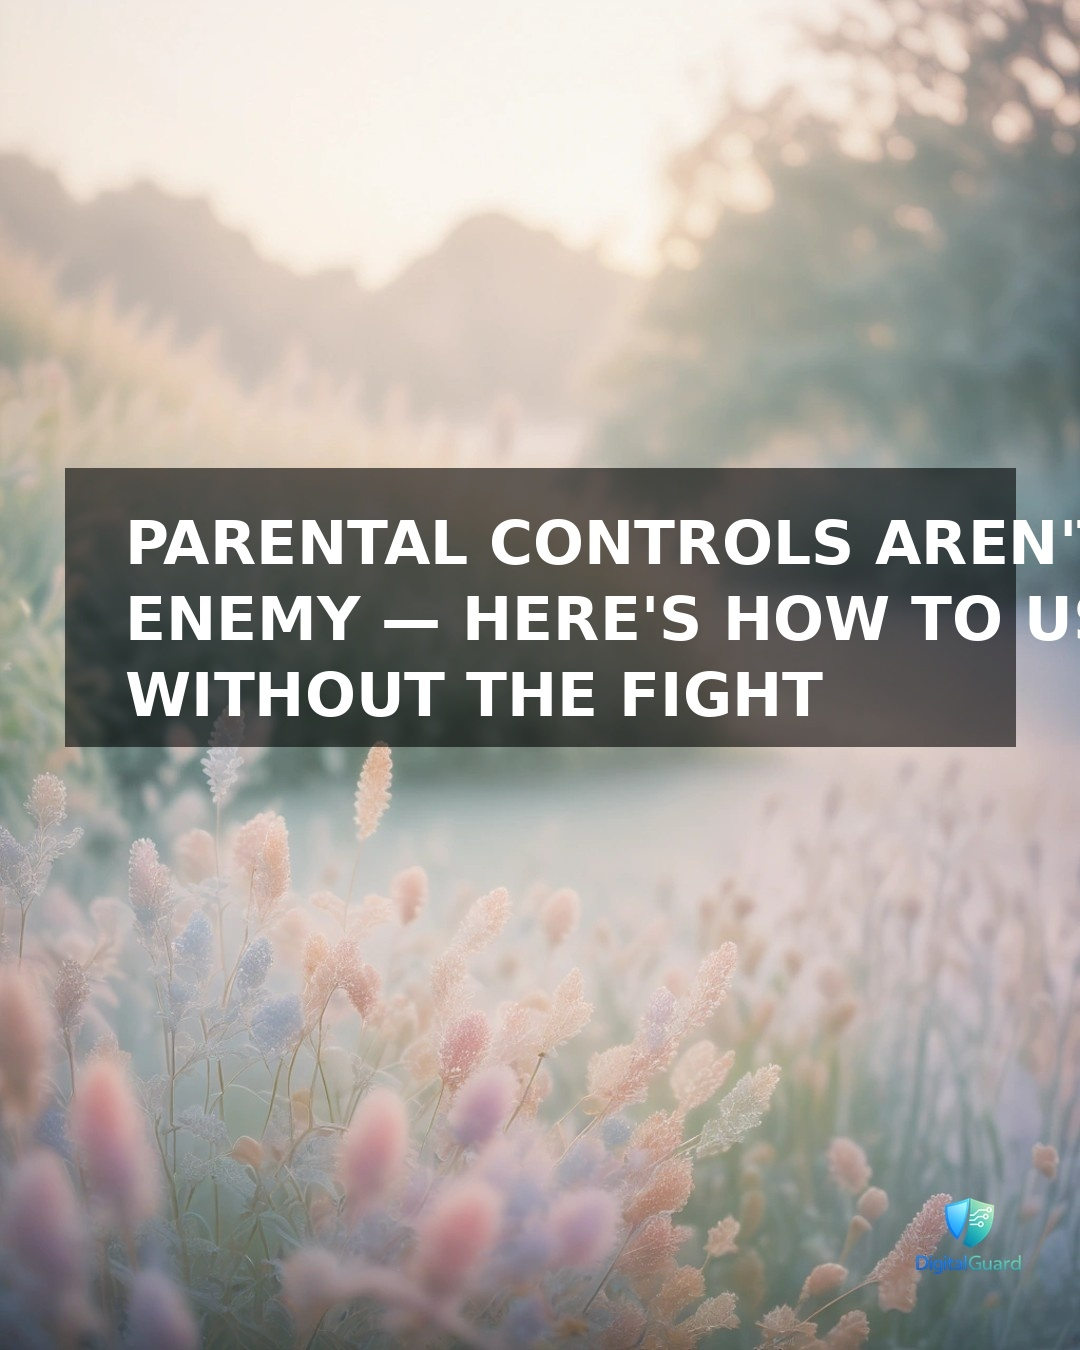
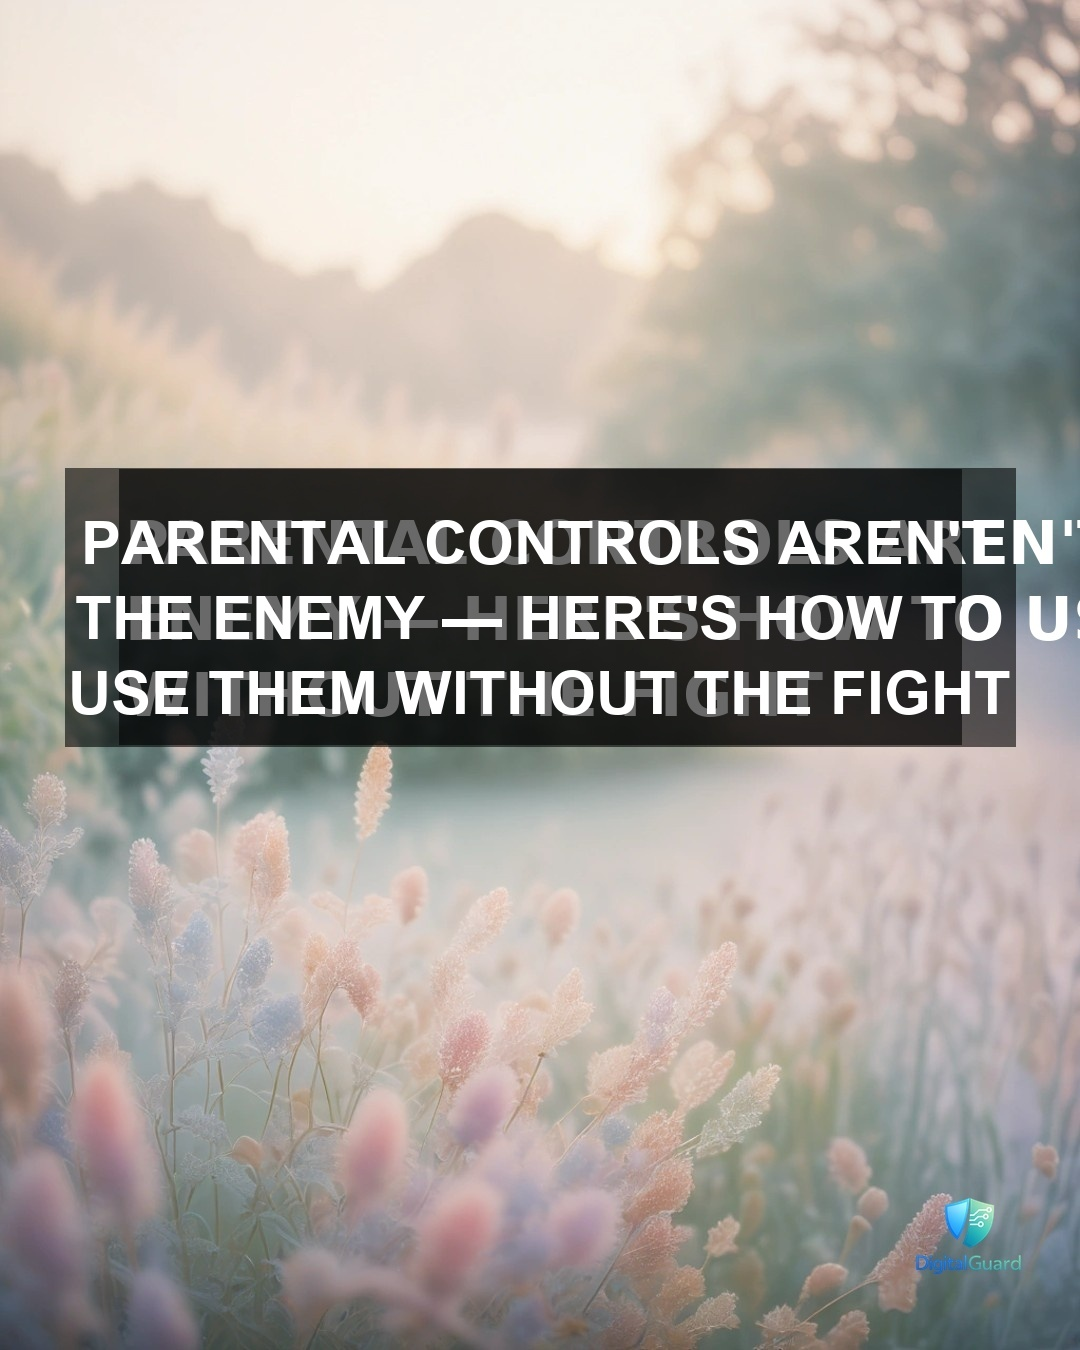
fix: tighten overlay panel to text bounds and reduce wrap width

Changed region(s): [[0.0611, 0.3422, 0.9472, 0.56]]

diff --git a/bot.py b/bot.py
@@ -1651,17 +1651,16 @@ def add_static_text_overlay(image_path: str, text_overlay: str) -> str:
     font_size = 75 if len(overlay) < 25 else 60
     font = _load_font(font_size)
 
-    # Proportional wrap: fit text within 78% of image width
-    max_text_width = int(w * 0.78)
-    wrap_width = max(10, int(max_text_width / (font_size * 0.52)))
+    # Proportional wrap: keep headline readable without hitting edges.
+    wrap_width = max(10, int(w * 0.28 / (font_size * 0.52)))
     wrapped = "\n".join(textwrap.wrap(overlay.upper(), width=wrap_width))
 
     bbox = draw.multiline_textbbox((0, 0), wrapped, font=font, spacing=20, align="center")
     tw = bbox[2] - bbox[0]
     th = bbox[3] - bbox[1]
 
-    pad_x, pad_y = 60, 40
-    box_w = min(int(w * 0.78), tw + pad_x * 2)
+    pad_x, pad_y = 70, 50
+    box_w = min(tw + pad_x * 2, int(w * 0.88))
     box_h = th + pad_y * 2
     box_x = int((w - box_w) // 2)
     box_y = int((h - box_h) // 2 - (h * 0.05))
